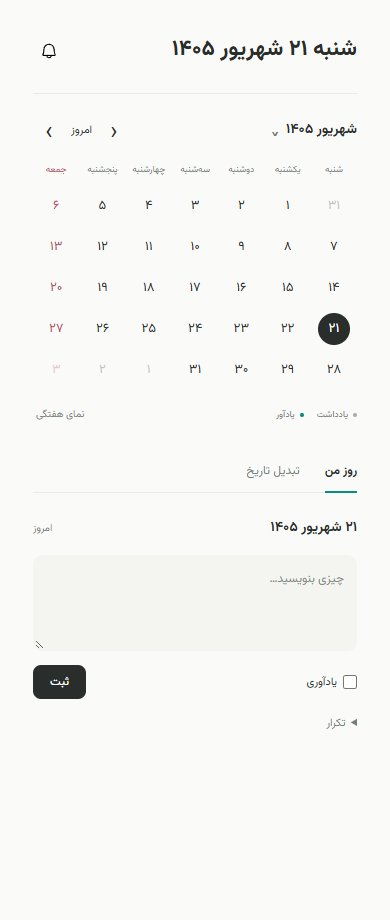
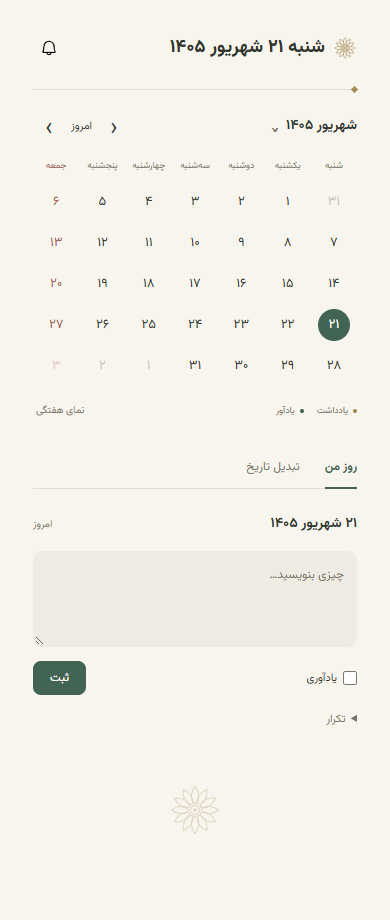
Add light Persian stone theme with twelve-petal rosette

diff --git a/styles.css b/styles.css
@@ -53,3 +53,25 @@ body main{width:100%;max-width:360px;padding-inline:18px}
 .today-header h1{display:block;font-size:clamp(18px,5.6vw,24px);font-weight:750;letter-spacing:0;line-height:1.7;white-space:nowrap}
 .today-header .icon-button{flex-shrink:0}
 :root{font-family:Vazirmatn,sans-serif;color:#292d2c;background:#fafaf8;font-synthesis:none;--accent:#098d80;--muted:#777e7a;--line:#e9ebe6;--rose:#b64f69}*{box-sizing:border-box}body{margin:0}main{max-width:520px;margin:auto;padding:24px 24px 0;min-height:100dvh;display:flex;flex-direction:column}button,input,textarea,select{font:inherit}button,a,input,textarea,select{-webkit-tap-highlight-color:transparent}button{cursor:pointer;border:0;background:none;color:inherit}button:disabled{opacity:.4;cursor:default}button,a{touch-action:manipulation}button:focus-visible,a:focus-visible{outline:2px solid var(--accent);outline-offset:3px}button:hover{color:var(--accent)}a{color:inherit;text-decoration:none}h1,h2,h3,p{margin:0}h2{font-size:14px;font-weight:650}h3{font-size:12px;font-weight:550}.brand{display:flex;align-items:center;gap:14px}.wordmark{font-size:29px;font-weight:850;letter-spacing:-2px;display:flex;align-items:center;gap:6px}.wordmark span{height:6px;width:6px;background:var(--accent);border-radius:50%;margin-top:12px}.brand-caption{font-size:10px;color:var(--muted);flex:1}.icon-button{min-width:32px;height:32px;display:inline-grid;place-content:center;position:relative;border-radius:50%;font-size:24px}.brand .icon-button{border:1px solid var(--line)}.bell{font-size:22px;transform:rotate(180deg)}.badge{position:absolute;top:-4px;left:-3px;background:var(--accent);color:white;font-size:9px;min-width:15px;height:15px;border-radius:50%;display:grid;place-content:center}.hero{padding-top:39px}.eyebrow{display:flex;align-items:center;gap:8px;font-size:11px;color:var(--muted)}.tiny-line{width:16px;height:1px;background:#c5cbc6}#live-clock{font-variant-numeric:tabular-nums}h1{font-size:38px;font-weight:750;line-height:1.65;display:flex;align-items:center;gap:12px;letter-spacing:-1.3px}h1 i{width:8px;height:8px;border-radius:50%;background:var(--accent)}.motto{font-size:12px;color:var(--muted)}.hero-date{margin:25px 0 27px;display:flex;justify-content:space-between;align-items:center;gap:10px}.hero-date strong{font-size:13px;font-weight:500}.hero-date>span{font-size:11px;color:var(--muted)}.calendar-section{padding:20px 0 15px;border-top:1px solid var(--line)}.section-heading{display:flex;justify-content:space-between;align-items:center;gap:10px}.navigation{display:flex;align-items:center;gap:3px}.navigation .icon-button{font-family:Arial,sans-serif;font-size:23px}.text-button{font-size:11px;padding:7px 3px;white-space:nowrap}.accent{color:var(--accent)}.weekdays,.calendar{display:grid;grid-template-columns:repeat(7,minmax(0,1fr));text-align:center}.weekdays{font-size:10px;color:var(--muted);margin:17px 0 8px}.weekdays span:last-child{color:var(--rose)}.day{position:relative;height:41px;padding:0;display:grid;place-items:center;font-size:13px;border-radius:12px}.day .number{width:32px;height:32px;display:grid;place-items:center;border-radius:50%}.day.friday{color:var(--rose)}.day.outside{opacity:.3}.day.today .number{box-shadow:inset 0 0 0 1px #94bfb6;color:var(--accent)}.day.selected .number{background:#292d2c;color:white;box-shadow:none}.dots{position:absolute;bottom:0;display:flex;gap:3px}.dots i,.legend i{width:4px;height:4px;border-radius:50%;display:inline-block}.note-dot{background:#a9afa9}.reminder-dot{background:var(--accent)}.legend{display:flex;align-items:center;gap:13px;font-size:9px;color:var(--muted);margin-top:10px}.legend>span{display:flex;gap:5px;align-items:center}.legend button{margin-right:auto;font-size:10px}.tabs{display:flex;border-bottom:1px solid var(--line);gap:25px;margin-top:3px}.tabs button{font-size:12px;color:var(--muted);padding:15px 0 12px;position:relative}.tabs button.active{color:#292d2c;font-weight:650}.tabs button.active:after{content:'';position:absolute;bottom:-1px;height:2px;right:0;left:0;background:var(--accent)}#tab-count{font-size:10px}.panel{padding:24px 0;min-height:270px}.small{font-size:10px;color:var(--muted);line-height:1.9}textarea,input,select{width:100%;border:1px solid var(--line);background:#fff;border-radius:10px;padding:11px 12px;color:inherit;outline:none;font-size:12px}textarea:focus,input:focus,select:focus{border-color:#79b6a9;box-shadow:0 0 0 3px #098d8009}textarea{resize:vertical;min-height:95px;line-height:2;margin-top:16px;background:#f4f5f0;border:1px solid transparent}textarea::placeholder,input::placeholder{color:#858c86}label{display:block;font-size:11px;margin:13px 0 7px}.note-footer{display:flex;align-items:center;justify-content:space-between;gap:8px}.reminder-heading{margin-top:23px;margin-bottom:8px}.empty{padding:17px 0;color:var(--muted);font-size:11px;line-height:1.9}.reminder{display:flex;align-items:center;gap:10px;padding:14px 0;border-bottom:1px solid var(--line)}.reminder .content{flex:1;min-width:0}.reminder strong{font-size:12px;display:block;overflow-wrap:anywhere;font-weight:500}.reminder small{font-size:10px;color:var(--muted)}.reminder time{font-size:11px;color:var(--accent);font-variant-numeric:tabular-nums}.delete{font-size:18px;color:#929891;min-width:28px;min-height:30px}.reminder.done{opacity:.65}.reminder-form{margin-top:12px;padding:0 13px 13px;background:#f1f4ee;border-radius:12px}.form-row{display:flex;align-items:center;justify-content:space-between;gap:10px;margin-top:12px}.form-row input{width:110px;direction:ltr}.form-actions{display:flex;justify-content:flex-end;gap:16px;margin-top:15px}.primary{background:#292d2c;color:white;padding:10px 18px;border-radius:8px;font-size:12px}.primary:hover{background:#156c61;color:white}#convert-form .primary{margin-top:16px;width:100%}#convert-result{display:block;white-space:pre-line;font-size:18px;line-height:2.1;margin-top:20px}#convert-result.error{font-size:12px;color:var(--rose)}.hint{font-size:10px;line-height:2;color:var(--muted);margin-top:24px}footer{border-top:1px solid var(--line);margin-top:auto;display:flex;justify-content:space-between;align-items:center;padding:17px 0;font-size:9px;color:var(--muted)}footer span{display:flex;align-items:center;gap:5px}footer i{width:4px;height:4px;background:var(--accent);border-radius:50%}footer a:hover{color:var(--accent)}#message{position:fixed;bottom:15px;left:18px;right:18px;max-width:480px;margin:auto;padding:12px 15px;border-radius:10px;background:#292d2c;color:white;font-size:12px;z-index:5}.sr-only{position:absolute;width:1px;height:1px;overflow:hidden;clip:rect(0,0,0,0)}[hidden]{display:none!important}@media(max-width:340px){main{padding:18px 16px 0}.brand-caption{font-size:9px}.hero{padding-top:27px}.tabs{gap:22px}.hero-date>span{font-size:10px}}@media(prefers-reduced-motion:no-preference){button{transition:color .15s,background .15s} .panel{animation:appear .18s ease-out}@keyframes appear{from{opacity:.4;transform:translateY(3px)}to{opacity:1;transform:none}}}
+/* Light stone palette and an original twelve-petal ornament inspired by ancient Persian reliefs. */
+:root{color:#30362f;background:#f8f5ee;--accent:#426454;--muted:#757467;--line:#e4dfd2;--rose:#a45d50;--gold:#a38a53}
+.today-header{position:relative;padding-bottom:25px}
+.today-header h1{display:flex;align-items:center;gap:8px;min-width:0;font-size:clamp(15px,4.7vw,19px)}
+.date-rosette{flex:none;width:24px;height:24px}
+.date-heading{white-space:normal}
+.calendar-section{position:relative}
+.calendar-section::before{content:'';position:absolute;top:-3px;inset-inline-start:0;width:5px;height:5px;background:var(--gold);transform:rotate(45deg)}
+.day.selected .number,.month-grid button[aria-pressed=true]{background:var(--accent);color:#fffdf7}
+.day.today:not(.selected) .number{box-shadow:inset 0 0 0 1px var(--gold);color:var(--accent)}
+.day:hover:not(.selected) .number,.month-grid button:hover{background:#eaeade}
+.note-dot{background:var(--gold)}
+textarea,input,select,.month-picker,#series-scope{background:#fffdf8}
+textarea{background:#eeece2}
+textarea::placeholder,input::placeholder{color:var(--muted)}
+textarea:focus,input:focus,select:focus{border-color:var(--accent);box-shadow:0 0 0 3px #4264540d}
+.primary{background:var(--accent);color:#fffdf7}
+.primary:hover{background:#304c3e}
+.tabs button.active,.reminder-filters button[aria-selected=true]{color:var(--accent)}
+#message{background:#303e34}
+main::after{content:'';display:block;flex-shrink:0;width:56px;height:56px;margin:16px auto 24px;background:url('assets/rosette.svg') center/contain no-repeat;opacity:.28;pointer-events:none}
+@media(max-width:320px){.today-header h1{gap:6px;font-size:15px}.date-rosette{width:20px;height:20px}}

diff --git a/sidepanel.html b/sidepanel.html
@@ -3,7 +3,7 @@
 <head><meta charset="utf-8"><meta name="viewport" content="width=device-width,initial-scale=1"><title>روز · تقویم آرام شما</title><link rel="stylesheet" href="styles.css"><script type="module" src="app.js"></script></head>
 <body><main>
   <div id="home-screen">
-  <header class="today-header" aria-label="تاریخ امروز"><h1><span id="today-weekday"></span> <span id="today-date"></span></h1><button id="open-alerts" class="icon-button" aria-label="نمایش همه یادآورها"><img src="assets/bell.svg" width="18" height="18" alt=""><span id="alert-count" class="badge" hidden></span></button></header>
+  <header class="today-header" aria-label="تاریخ امروز"><h1><img class="date-rosette" src="assets/rosette.svg" width="24" height="24" alt="" aria-hidden="true"><span class="date-heading"><span id="today-weekday"></span> <span id="today-date"></span></span></h1><button id="open-alerts" class="icon-button" aria-label="نمایش همه یادآورها"><img src="assets/bell.svg" width="18" height="18" alt=""><span id="alert-count" class="badge" hidden></span></button></header>
   <section class="calendar-section" aria-label="تقویم"><div class="section-heading"><h2><button id="month-title" type="button" aria-expanded="false" aria-controls="month-picker" title="انتخاب ماه و سال"></button></h2><div class="navigation"><button id="prev" class="icon-button" aria-label="ماه قبل">‹</button><button id="today" class="text-button">امروز</button><button id="next" class="icon-button" aria-label="ماه بعد">›</button></div></div><div id="month-picker" class="month-picker" hidden><label for="jump-year">سال</label><select id="jump-year"></select><div id="jump-months" class="month-grid" aria-label="انتخاب ماه"></div></div><div class="weekdays" aria-hidden="true"><span>ش</span><span>ی</span><span>د</span><span>س</span><span>چ</span><span>پ</span><span>ج</span></div><div id="calendar" class="calendar" aria-label="روزهای ماه"></div><div class="legend"><span><i class="note-dot"></i>یادداشت</span><span><i class="reminder-dot"></i>یادآور</span><button id="week-toggle" class="text-button">نمای هفتگی</button></div></section>
   <nav class="tabs" aria-label="ابزارها"><button class="active" data-tab="day" aria-current="page">روز من</button><button data-tab="convert">تبدیل تاریخ</button></nav>
   <section id="day-panel" class="panel"><div class="section-heading"><h2 id="selected-title"></h2><span class="small" id="selected-relative"></span></div><form id="note-form"><label class="sr-only" for="note">یادداشت</label><textarea id="note" rows="3" maxlength="10000" placeholder="چیزی بنویسید…"></textarea><div class="composer-tools"><label class="remind-switch"><input id="remind-toggle" type="checkbox"><span>یادآوری</span></label><div id="reminder-time-row" hidden><div class="time-24" dir="ltr"><select id="reminder-hour" aria-label="ساعت یادآوری، ۲۴ ساعته"></select><span aria-hidden="true">:</span><select id="reminder-minute" aria-label="دقیقه یادآوری"></select></div><input id="reminder-time" type="hidden" value="09:00"></div><button id="cancel-note" type="button" class="text-button" hidden>انصراف</button><button class="primary" type="submit">ثبت</button></div><details id="repeat-options"><summary>تکرار</summary><label for="repeat-mode">تکرار</label><select id="repeat-mode"><option value="none">فقط همین روز</option><option value="daily">هر روز · روزهای پشتسرهم</option><option value="weekly">روزهای مشخص هفته</option></select><div id="repeat-days" hidden></div><div id="repeat-end-row" hidden><label for="repeat-end">پایان</label><select id="repeat-end"><option value="30">پس از ۳۰ روز</option><option value="7">پس از ۷ روز</option><option value="90">پس از ۹۰ روز</option><option value="custom">تعداد روز دلخواه</option><option value="forever">بدون پایان</option></select><input id="repeat-duration" type="number" min="1" max="36500" value="30" aria-label="تعداد روز از شروع" hidden><p class="small">از روز انتخابشده؛ شامل روز شروع</p></div><p id="repeat-edit-hint" class="small" hidden></p></details><span class="small" id="note-status" role="status"></span></form><div id="day-notes" aria-live="polite"></div></section>

diff --git a/README.md b/README.md
@@ -1,6 +1,10 @@
 # روز · تقویم شمسی
 
-نسخهٔ ۱.۴.۰ — افزونهٔ سایدپنل کروم برای تقویم شمسی، یادداشت و یادآور؛ کاملاً محلی و بدون نیاز به حساب کاربری.
+نسخهٔ ۱.۴.۱ — افزونهٔ سایدپنل کروم برای تقویم شمسی، یادداشت و یادآور؛ کاملاً محلی و بدون نیاز به حساب کاربری.
+
+![نمای تقویم با طرح ایرانی](screenshots/persian-theme.png)
+
+طرح روشن با رنگ سنگ، سبز سنگی و گل دوازدهپر الهامگرفته از نقشهای ایران باستان.
 
 ## نصب دستی در کروم
 
